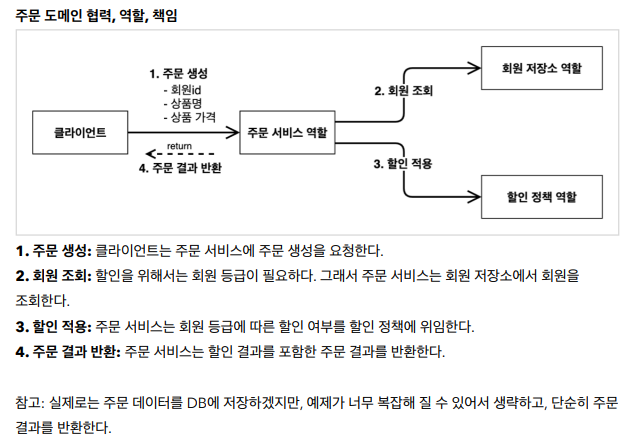
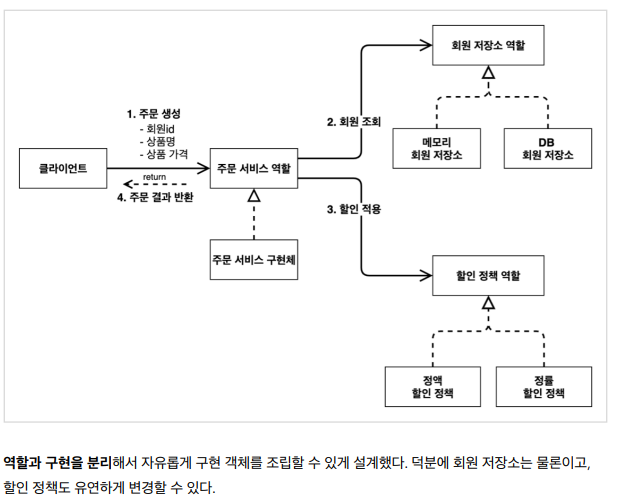
DI_3

diff --git a/spring/DI,IOC.md b/spring/DI,IOC.md
@@ -12,13 +12,34 @@
 
 # 상황 요약
 
+> 회원 도메인 협력 관계
+
+<p align= "center">
+<img src= "https://github.com/steadykyu/TIL/blob/master/spring/img/DI_0_1.png">
+
+> 회원 도메인 클래스 다이어그램
+
+<p align= "center">
+<img src= "https://github.com/steadykyu/TIL/blob/master/spring/img/DI_0_2.png">
+
+> 회원 도메인 객체 다이어그램
+
+<p align= "center">
+<img src= "https://github.com/steadykyu/TIL/blob/master/spring/img/DI_0_3.png">
+
+> 주문 도메인 협력관계
+
 <p align= "center">
 <img src= "https://github.com/steadykyu/TIL/blob/master/spring/img/DI_1.png">
 </p>
 
+> 주문 도메인 클래스 다이어그램
+
 <p align= "center">
 <img src= "https://github.com/steadykyu/TIL/blob/master/spring/img/DI_2.png">
 </p>
+
+> 주문 도메인 객체 다이어그램
 
 <p align= "center">
 <img src= "https://github.com/steadykyu/TIL/blob/master/spring/img/DI_3.png">
@@ -63,7 +84,9 @@ public class OrderServiceImpl implements OrderService{
 ```
 
 - 할인 정책을 RDP로 바꾸어주었다.
+
 - 역할과 구현 충실히 분리 -> OK
+
 - 다형성을 활용하여, 인터페이스와 객체를 분리 -> OK
 
 > 문제점
